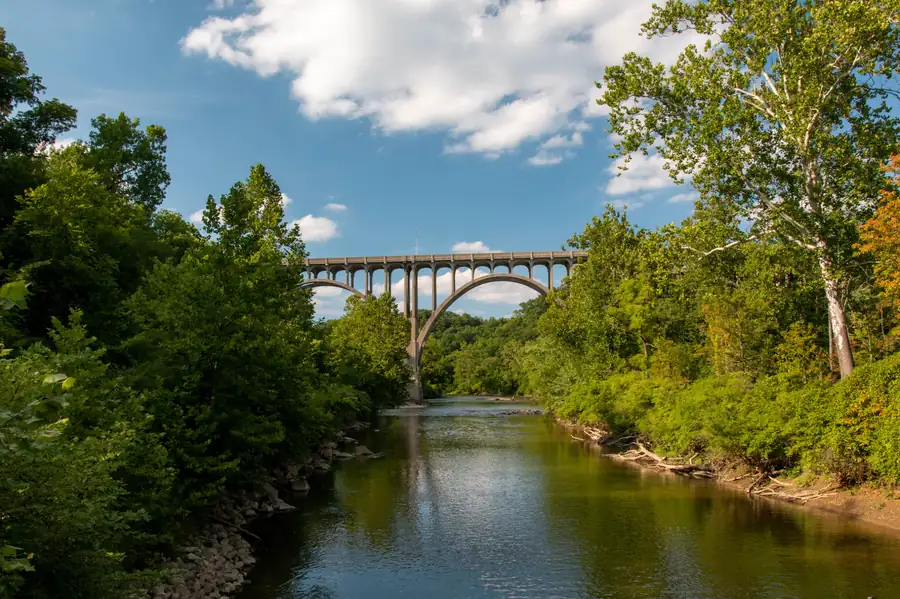
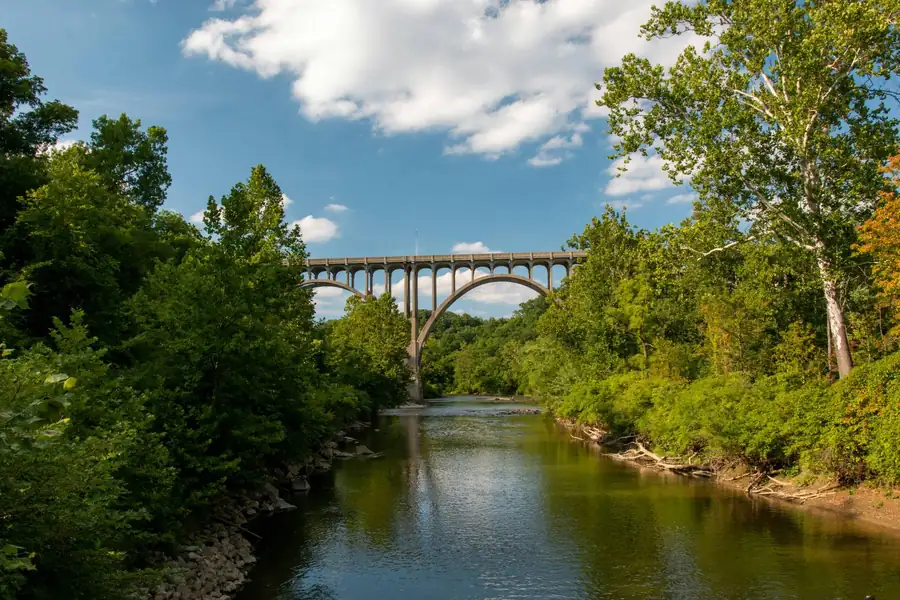
Swap in the original Cuyahoga Valley photo
Claude-Session: https://claude.ai/code/session_01X9hd41roWiitbcJMHwT28w

diff --git a/DECISIONS.md b/DECISIONS.md
@@ -58,4 +58,4 @@ Choices made in the first build, with the reason for each. Founders can reverse 
 | 2026-10-14 | Private style preview at /preview-clean/ and /preview-clean/services/ (noindex, not linked, not in the sitemap): the same Home and Services pages with headings in Libre Franklin bold instead of the condensed display face, sentence-case labels instead of spaced capitals, no pill tags, no arrow links, and plain stage numbers. Scoped to a body class, so the live pages are unchanged. Delete the two routes once a style is chosen. | Matt felt the fonts looked AI-generated; this lets him compare the real pages. |
 | 2026-10-14 | Cleaner style applied to every page: Libre Franklin throughout (bold, slightly tightened headings) replaces Big Shoulders Display, which was removed from the site (35 KB less to load); labels in sentence case instead of spaced capitals; no pill outlines or arrow links; plain stage numbers. Link preview image updated to match. The private /preview-clean/ pages were removed. | Matt chose the preview after comparing it with the live pages. |
 | 2026-10-14 | (Superseded below.) Private hero previews at /preview-hero/1/, /2/, /3/ (noindex, unlinked): 1) the tree standing on gold, orange, and red stripes that run to the page edge; 2) a Cuyahoga Valley photo panel with the stripes; 3) the photo across the whole hero with a dark wash and the stripes along the bottom. Photo: Cuyahoga River and high-level bridge, Cuyahoga Valley National Park, by Sergey Kolomiyets on Unsplash (Unsplash License: free for commercial use, no attribution required). The preview copy was captured from the photo page; use the original download if a photo option is chosen. Live Home page unchanged. | Matt asked to explore replacing the dark hero panel with the tree and stripes and Northeast Ohio photography. |
-| 2026-10-14 | Home hero is now option 3: the Cuyahoga Valley photo across the full hero, a dark wash behind the text, and gold, orange, and red stripes (with white gaps, as in the logo) along the bottom edge. The dark contour panel is gone from Home. Photo served as WebP (about 260 KB desktop, 85 KB phone) with a JPEG fallback, preloaded on Home only. Preview pages and the unused tree graphic were removed. | Matt's choice. The photo is a capture from the Unsplash page; replace it with the original download from unsplash.com/photos/psdn2cvYIPQ, or a commissioned local photo, when convenient. |
+| 2026-10-14 | Home hero is now option 3: the Cuyahoga Valley photo across the full hero, a dark wash behind the text, and gold, orange, and red stripes (with white gaps, as in the logo) along the bottom edge. The dark contour panel is gone from Home. Photo served as WebP (about 260 KB desktop, 85 KB phone) with a JPEG fallback, preloaded on Home only. Preview pages and the unused tree graphic were removed. | Matt's choice. Original Unsplash download (2000 px) supplied by Matt and swapped in the same day. |
